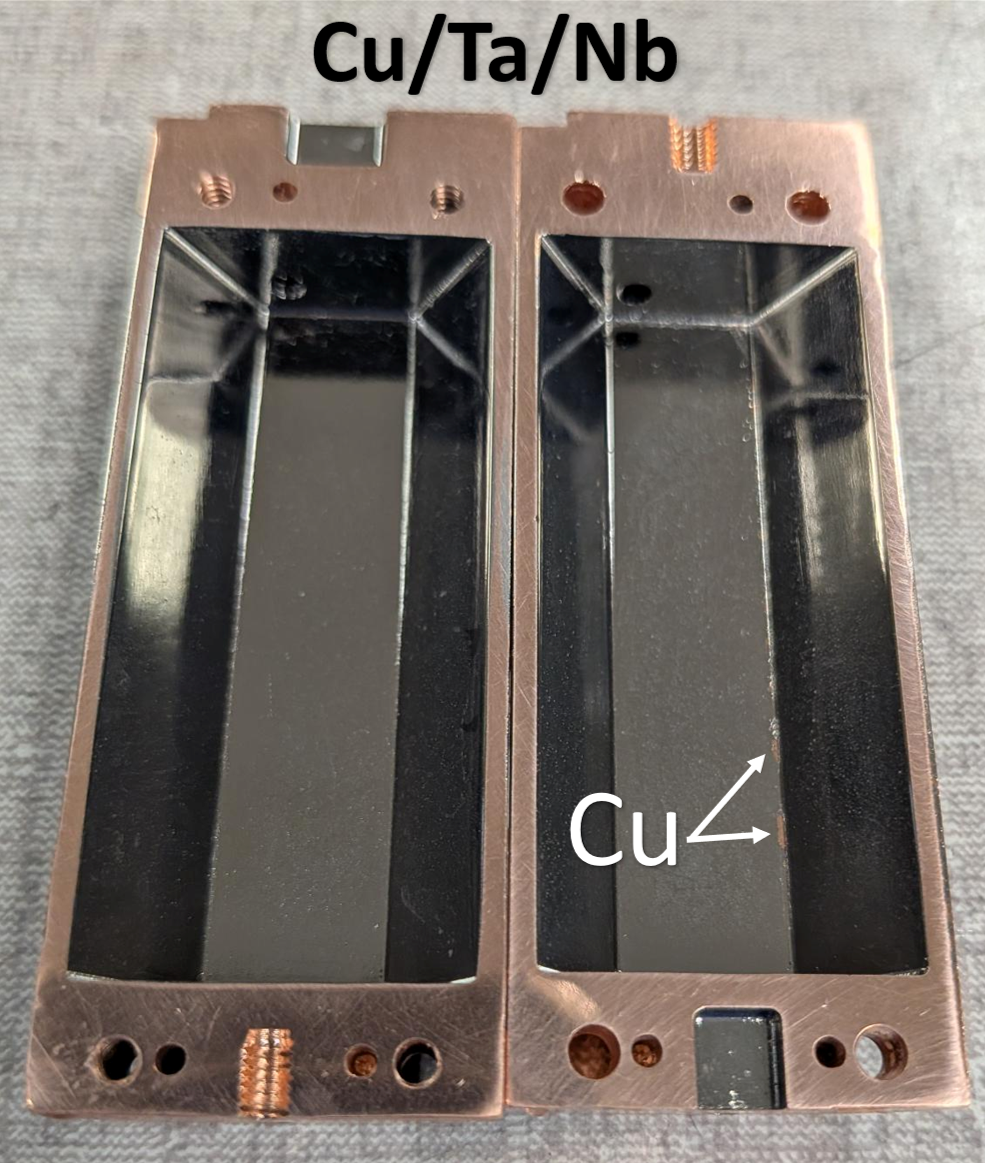
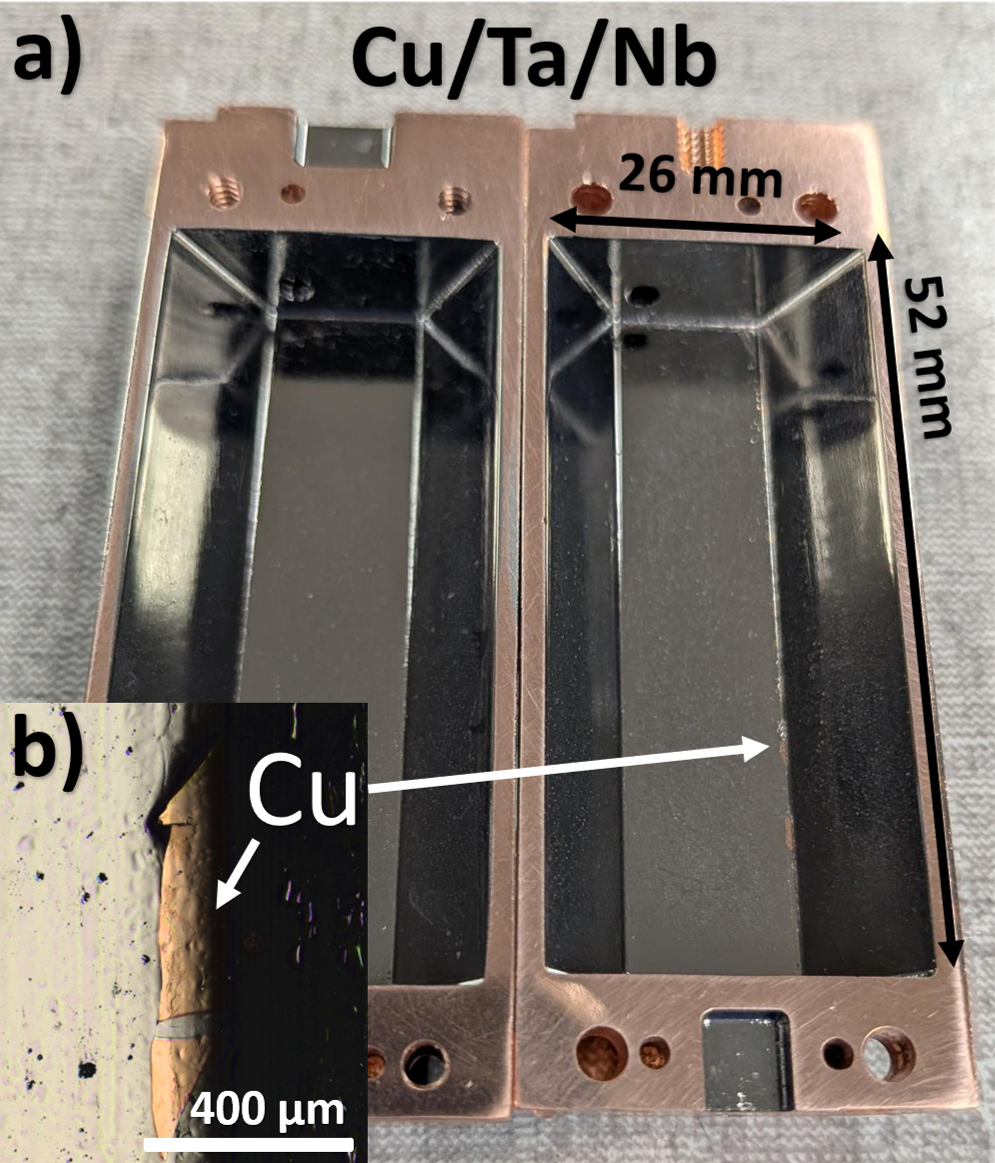
Updates from Overleaf

diff --git a/main.tex b/main.tex
@@ -23,7 +23,7 @@
 
 \begin{abstract}
 
-Superconducting films coated on 3D cavities can raise the quality factor of a copper haloscope or accelerator cavity by orders of magnitude. There are many different superconducting materials, and many different ways to make them, so a robust and quick method for testing the quality factor of the superconducting film is required. There are currently many ways to test the RF properties of supercondcuting films and here we report the fabrication and 11\,GHz RF characterization of a two-piece hexagonal oxygen-free high-conductivity (OFHC) copper cavity sputter-coated with a \SI{500}{\nano\meter} Ta diffusion barrier and a \SI{700}{\nano\meter} Nb film. The cavity was measured from 2 to \SI{10}{\kelvin} in a Quantum Design Physical Property Measurement System (PPMS), and the unloaded quality factor $Q_0$ was extracted from vector network analyzer $S_{11}$, $S_{22}$, and $S_{21}$ data using a diameter-correction circle-fit for the input and output coupling coefficients. At \SI{2}{\kelvin} the film reached $Q_0 = 1.64\times10^{6}$, corresponding to a surface resistance $R_s = \SI{213}{\micro\ohm}$ for a simulated geometric factor $G=\SI{350}{\ohm}$. This is $\sim$26$\times$ the measured bare-copper baseline of the same body ($Q_0=62{,}000$, $R_s=\SI{5.65}{\milli\ohm}$) and comparable with a simulated bulk-Cu ceiling of $Q_0=77{,}000$ ($R_s=\SI{5.00}{\milli\ohm}$), but roughly 250 times the BCS-limited surface resistance of niobium at this frequency, indicating that surface roughness in the as-sputtered film dominates over the intrinsic BCS term.
+Superconducting films coated on 3D cavities can raise the quality factor of a copper haloscope or accelerator cavity by orders of magnitude. There are many different superconducting materials, and many different ways to make them, so a robust and quick method for testing the quality factor of the superconducting film is required. There are currently many ways to test the RF properties of superconducting films and here we report the fabrication and 11\,GHz RF characterization of a two-piece hexagonal oxygen-free high-conductivity (OFHC) copper cavity sputter-coated with a \SI{500}{\nano\meter} Ta diffusion barrier and a \SI{700}{\nano\meter} Nb film. The cavity was measured from 2 to \SI{10}{\kelvin} in a Quantum Design Physical Property Measurement System (PPMS), and the unloaded quality factor $Q_0$ was extracted from vector network analyzer $S_{11}$, $S_{22}$, and $S_{21}$ data using a diameter-correction circle-fit for the input and output coupling coefficients. For comparison, the bulk Cu cavity was simulated giving $Q_0=77{,}000$ ($R_s=\SI{5.00}{\milli\ohm}$), and measured Cu cavity gave $Q_0=62{,}000$, $R_s=\SI{5.65}{\milli\ohm}$ only off by a factor of 19\% from the ideal. The Ta/Nb coated Cu cavity at \SI{2}{\kelvin} the film reached $Q_0 = 1.64\times10^{6}$, corresponding to a surface resistance $R_s = \SI{213}{\micro\ohm}$ for a simulated geometric factor $G=\SI{350}{\ohm}$. This is roughly 250 times worse then the surface resistance of a comparable niobium cavity at this frequency, indicating that residual resistance dominated. This cavity design allows for pre and post surface analysis to understand what can be improved on future generations for fast optimization thoughput. 
 \end{abstract}
 
 \begin{IEEEkeywords}
@@ -71,20 +71,7 @@ giving $Q_0 = 1.64\times10^{6}$ at \SI{2}{\kelvin}.
 
 \begin{figure*}[!t]
     \centering
-    \begin{subfigure}[b]{0.32\textwidth}
-        \includegraphics[width=\textwidth]{qcircle_s11.png}
-        \caption{Drive port, $S_{11}$}
-    \end{subfigure}
-    \hfill
-    \begin{subfigure}[b]{0.32\textwidth}
-        \includegraphics[width=\textwidth]{qcircle_s22.png}
-        \caption{Pickup port, $S_{22}$}
-    \end{subfigure}
-    \hfill
-    \begin{subfigure}[b]{0.32\textwidth}
-        \includegraphics[width=\textwidth]{qcircle_s21.png}
-        \caption{Transmission, $S_{21}$}
-    \end{subfigure}
+    \includegraphics[width=0.95\textwidth]{qcircle.png}
     \caption{Diameter-correction circle fits to the \SI{2}{\kelvin} drive-port (a) and pickup-port (b) reflection data, giving $\beta_1=0.53$ and $\beta_2=0.24$, and the Lorentzian fit to transmission (c) giving $Q_L=929{,}000$. Eq.~\eqref{eq:q0} combines these into $Q_0 = 1.64\times10^{6}$.}
     \label{fig:qcircle}
 \end{figure*}
@@ -115,12 +102,12 @@ Fig.~\ref{fig:results} shows the measured surface resistance and unloaded qualit
 
 At \SI{2}{\kelvin}, the film gives $Q_0=1.64\times10^{6}$ and $R_s=\SI{213}{\micro\ohm}$. Against the measured bare-copper baseline ($Q_0=62{,}000$, $R_s=\SI{5.65}{\milli\ohm}$), this is an improvement of roughly $26\times$ in quality factor, and it is comparable with the independently simulated bulk-Cu ceiling of $Q_0=77{,}000$. A separate finding on the same bare-copper cavity points to an easy path to a higher baseline still: sealing its seam with indium foil raised $Q_0$ from $55,000$ to $62,000$, a simple treatment we plan to apply to the coated cavity in future work. Against the BCS-limited value for niobium at this frequency ($R_s \approx \SI{0.58}{\micro\ohm}$ at \SI{2}{\kelvin}, $Q_0\approx 6.0\times10^{8}$), however, the measured film sits roughly 250 times higher in surface resistance. Surface roughness and uncoated areas of the substrate is the dominant mechanism that reduced our quality factor. Fig.~\ref{fig:roughness} confirms this directly: a Veeco laser-scanning confocal microscope scan of the sputtered Nb surface shows a background roughness of roughly $\pm$\SI{2}{\micro\meter} punctuated by scattered grooves reaching \SIrange{-8}{-11}{\micro\meter} along the line scan marked in red, consistent with polishing scratches that locally disrupted supercondcutivity. For comparison, electropolished Nb-on-Cu films in the literature reach AFM roughness (Ra) of only \SIrange{6}{21}{\nano\meter}~\cite{Pira2019CuPolish}, two to three orders of magnitude below what is measured here.
 
-\begin{figure}[!t]
-    \centering
-    \includegraphics[width=0.95\linewidth]{roughness.png}
-    \caption{Laser-scanning confocal microscope (Veeco) height map of the sputtered Nb surface (top; red line marks the scan location) and the corresponding line-scan height profile (bottom), showing $\pm$\SI{2}{\micro\meter} background roughness with scattered grooves reaching \SIrange{-8}{-11}{\micro\meter}.}
-    \label{fig:roughness}
-\end{figure}
+%\begin{figure}[!t]
+%    \centering
+  %  \includegraphics[width=0.95\linewidth]{roughness.png}
+ %   \caption{Laser-scanning confocal microscope (Veeco) height map of the sputtered Nb surface (top; red line marks the scan location) and the corresponding line-scan height profile (bottom), showing $\pm$\SI{2}{\micro\meter} background roughness with scattered grooves reaching \SIrange{-8}{-11}{\micro\meter}.}
+  %  \label{fig:roughness}
+%\end{figure}
 
 Approaching the transition, $R_s$ rises gradually before increasing sharply near \SI{8.7}{\kelvin}, which is lower than the bulk-Nb critical temperature of \SI{9.2}{\kelvin}. Above $T_c$, $Q_0$ falls to order $10^{4}$, below the bare-copper baseline, because normal-state Nb is more resistive than copper. The transition sitting lower than the bulk-Nb $T_c$ shows that the superconducting film could have been improved, possibly with a thicker layer or HIPIMS.
 
@@ -131,7 +118,8 @@ These results add to the growing pool of literature hoping to characterize the R
 A two-piece hexagonal OFHC copper cavity coated with a sputtered Ta/Nb bilayer was characterized at \SI{11}{\giga\hertz} from 2 to \SI{10}{\kelvin}. Using a diameter-correction circle-fit to extract coupling coefficients from $S_{11}$ and $S_{22}$, the unloaded quality factor at \SI{2}{\kelvin} was found to be $Q_0=1.64\times10^{6}$ ($R_s=\SI{213}{\micro\ohm}$), roughly $26\times$ the cavity's own measured bare-copper baseline and consistent with an independently simulated bulk-Cu ceiling, but approximately 250 times the BCS-limited surface resistance of niobium at this frequency, an excess more consistent with as-sputtered surface roughness than with trapped-flux resistance. Demonstrating this within the \SI{26}{\milli\meter} sample space of a commercial PPMS, rather than a purpose-built haloscope magnet with six times the bore, shows that coatings can be screened without dedicated large-bore infrastructure. This measurement establishes a baseline against which future work on the same platform can be compared with. This design allows for surface analysis of the sputtered film, and full quality factor characterization down to 2K and in high magnetic field with an instrument commonly found in many labs. 
 
 \section*{Acknowledgment}
-This work is supported by the U.S. Department of Energy, Office of Science, Office of High Energy Physics and the Accelerator R\&D and Production (ARDAP) office, under Award No.\ DE-SC0018379 and DE-SC0026206. A portion of this work was performed at the National High Magnetic Field Laboratory, which is supported by the National Science Foundation Cooperative Agreement No.\ DMR-1644779 and the State of Florida.
+This work is supported by the U.S. Department of Energy, Office of Science, Office of High Energy Physics and the Accelerator R\&D and Production (ARDAP) office, under Award No. DE-SC 0018379 and DE-SC0026206. A portion of this work was performed at the National High Magnetic Field Laboratory, which is supported by the National Science Foundation Cooperative Agreement No. DMR-1644779 and the State of Florida.
+
 
 \begin{thebibliography}{9}
 
